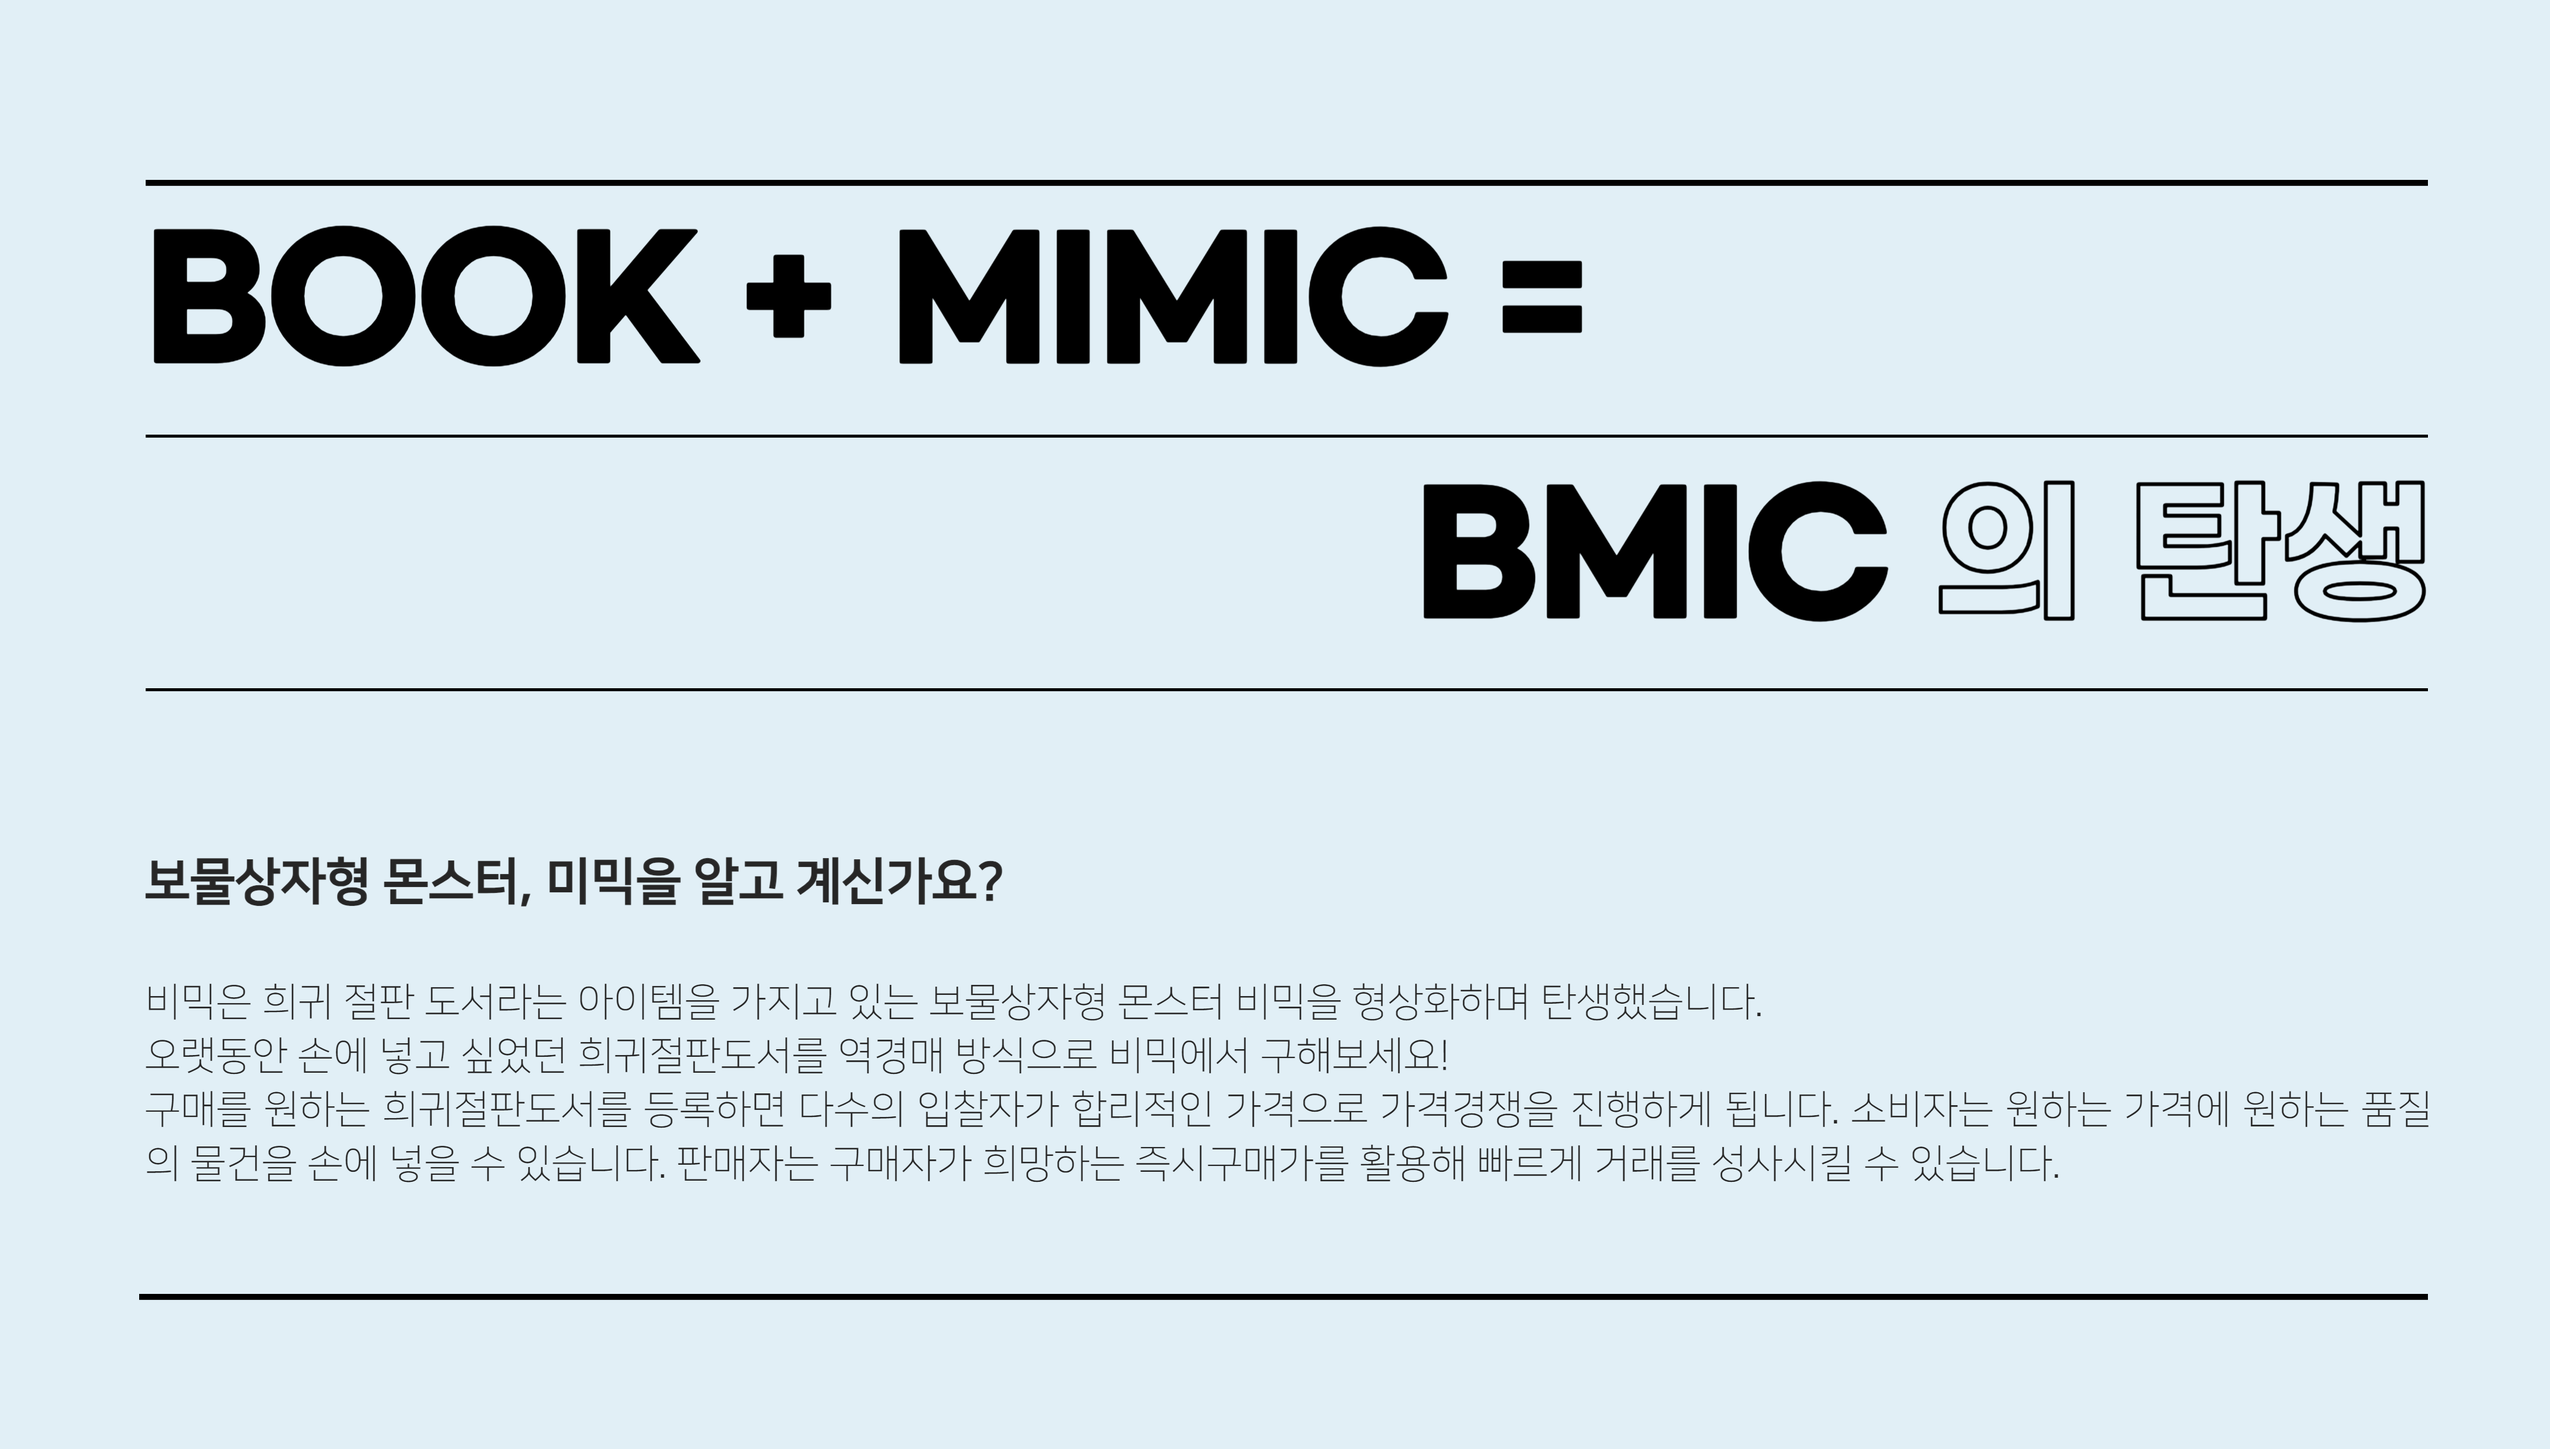
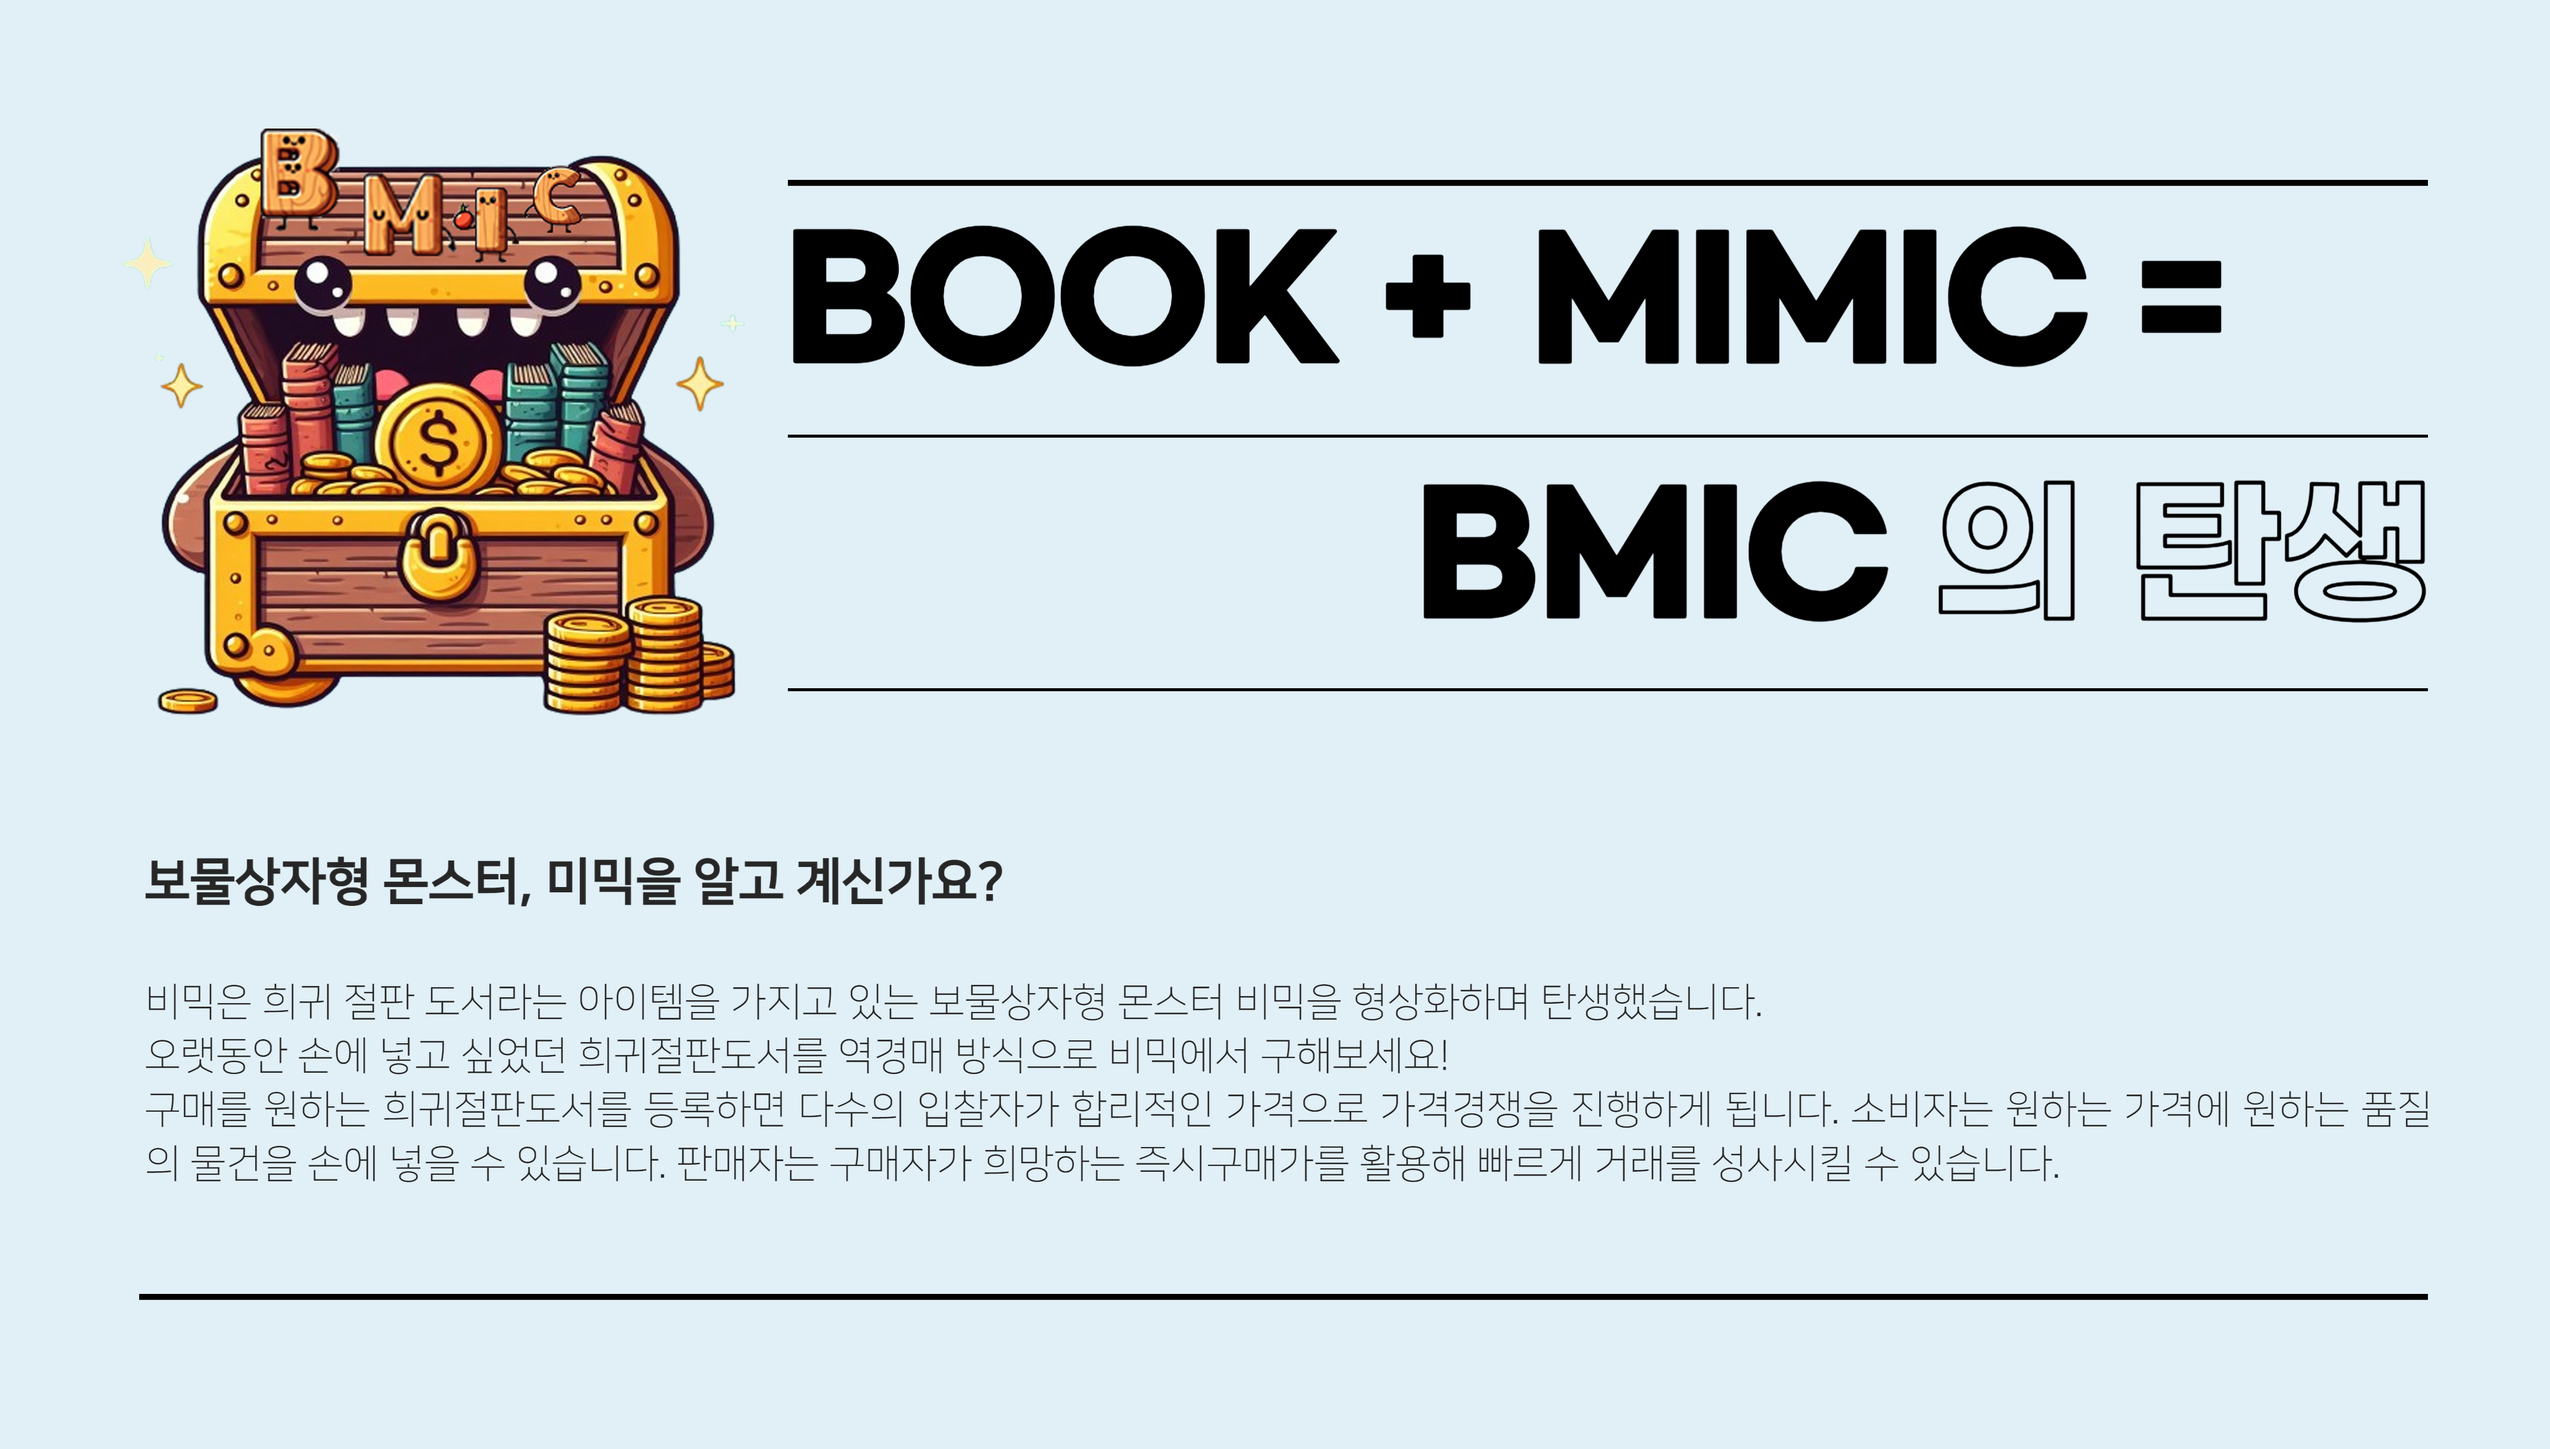
feature : 메인 이미지 수정, CSS 조정

Changed region(s): [[0.0312, 0.0928, 0.8742, 0.4949]]

diff --git a/project_front/src/assets/css/style.css b/project_front/src/assets/css/style.css
@@ -2442,7 +2442,7 @@ ul {
 .banner_part .single_banner_slider .banner_text {
 	display: table;
 	width: 100%;
-	height: 670px;
+	/* height: 670px; */
 }
 
 /* line 11, ../../01 cl html template/03_jun 2019/188_Aranoz shop_html/sass/_banner.scss */
@@ -2454,14 +2454,14 @@ ul {
 @media (max-width: 991px) {
 	/* line 7, ../../01 cl html template/03_jun 2019/188_Aranoz shop_html/sass/_banner.scss */
 	.banner_part .single_banner_slider .banner_text {
-		height: 550px;
+		/* height: 550px; */
 	}
 }
 
 @media only screen and (min-width: 992px) and (max-width: 1200px) {
 	/* line 7, ../../01 cl html template/03_jun 2019/188_Aranoz shop_html/sass/_banner.scss */
 	.banner_part .single_banner_slider .banner_text {
-		height: 650px;
+		/* height: 650px; */
 	}
 }
 
